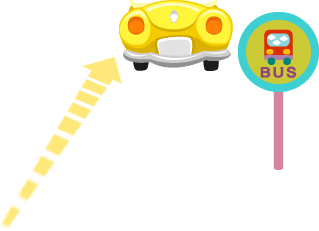
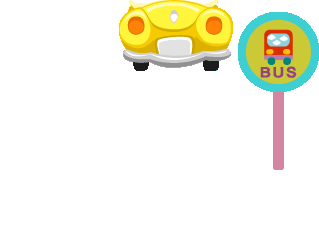
细节调整0614

diff --git a/media/css/Index.css b/media/css/Index.css
@@ -87,17 +87,19 @@ li.bor_b_n{ border-bottom:none!important;}
 .iphone{width:25.7%; height:48.3%; position: absolute; top:0%; left:12.7%; background: url("../images/iphone.png") no-repeat; background-size:100% 100%; z-index:6;}
 .no_left{width:10%; height:56%; position: absolute; top:0; left:24%; background: url("../images/no_left.png") no-repeat; background-size:100% 100%; z-index:2;}
 .lp{width:28%; height:66.4%; position: absolute; top:0; right:2.6%; background: url("../images/lp.png") no-repeat; background-size:100% 100%; z-index:2;}
-.bus{width:23.8%; height:30.8%; position: absolute; top:0; right:26%; background: url("../images/bus.png") no-repeat; background-size:100% 100%; z-index:2;}
-.result{ position: absolute; top:35%; left:21%;font-size:25px; color: #be4334;}
-.persent{ position: absolute; top:50%; left:20%;font-size: 25px; color:#000;}
-.r_text{ position: absolute;width:32.1%; top:72%; left:9%;font-size:16px; font-weight:600; color:#000;}
-.shareNb{ position: absolute; bottom:17.5%; right:16%;font-size:25px; font-weight:600; color:#000;}
+.bus{width:23.8%; height:30.8%; position: absolute; top:0; right:26%; background: url("../images/bus.png?112") no-repeat; background-size:100% 100%; z-index:2;}
+.result{ position: absolute; top:34%; left:21%;font-size:25px; color: #be4334;font-weight:600!important;}
+.persent{ position: absolute; top:48%; left:18%;font-size: 25px; color:#000;font-weight:600!important;}
+.r_text{ position: absolute;width:32.1%; top:72%; left:9%;font-size:16px; font-weight:600!important; color:#000;}
+.shareNb{ position: absolute; bottom:17.5%; right:16%;font-size:25px; font-weight:600!important; color:#000;}
 .shareButton{width:24.3%; height:15.6%; position: absolute; bottom:38%; right:2%; cursor:pointer}
 .testOne{width:24.3%; height:15.6%; position: absolute; bottom:55.74%; right:2%; cursor:pointer}
 .joinUs{width:24.03%; height:19%; position: absolute; bottom:27.33%; left:47%; cursor:pointer}
 .iphoneOk,.iphoneNot{width:18.9%; height:18%; position: absolute; top:41.5%; left:18.85%; cursor:pointer}
 .iphoneOk{left:62.3%;}
-.infoTxt{width:48%; height:21%; position: absolute; top:0; left:50%; margin-left:-24%; background: url("../images/txt01.png") no-repeat; background-size:100% 100%; z-index:6;}
+.infoTxt{width:48%; height:21%; position: absolute; top:0; left:50%; margin-left:-24%; background: url("../images/txt01.png") no-repeat; background-size:100% 100%; z-index:120000;}
+.jt{width:9.4%; height:30.8%; position: absolute; top:5%; right:41.4%; margin-left:-24%; background: url("../images/jt.png") no-repeat; background-size:100% 100%; z-index:6;}
+.jt.introduce{background: url("../images/jt_h.png?112") no-repeat;background-size:100% 100%;margin:-3.7% -3.7% 0 0;}
 
 /*----------car control--------*/
 .introduce{margin:0 0 -3.7% -3.7%;  padding:3.7%;}

diff --git a/media/js/fenxiang.js b/media/js/fenxiang.js
@@ -1,0 +1,69 @@
+function fenxiang(a,b,c){
+			if (ua.wechat) {
+				function getNewsLink() {
+					var link = location.search;
+					link = link.substr(1);
+					var link_arr = link.split('&');
+					var link_arr_length = link_arr.length;
+					var link_flag = false;
+					for (var i = 0; i < link_arr_length; i++) {
+						if (link_arr[i].split("=")[0] == "play") {
+							link_flag = true;
+						}
+					}
+					var url = location.href;
+					if (!link_flag) {
+						return url + (url.indexOf('?') < 0 ? '?' : '&') + 'play=1';
+					} else {
+						return url;
+					}
+				}
+				$.getJSON('http://res.jiconglin.com/index.php?module=cbtopic&controller=jt93api&action=share&callback=?', {url: location.href.split('#')[0]}, function (msg) {
+					if (msg.success) {
+						wx.config({
+							debug: false,
+							appId: msg.appId,
+							timestamp: msg.timestamp,
+							nonceStr: msg.nonceStr,
+							signature: msg.signature,
+							jsApiList: [
+								'onMenuShareTimeline',
+								'onMenuShareAppMessage',
+								'onMenuShareQQ',
+								'onMenuShareWeibo',
+							]
+						});
+					}
+					wx.ready(function () {
+						var news_title = a;
+						var news_link = getNewsLink();
+						var news_image = "../images/300300.jpg";
+						var news_intro = b;
+						var news_Timeline = c;
+						wx.onMenuShareTimeline({
+							title: news_title,
+							link: news_link,
+							imgUrl: news_image
+						});
+						wx.onMenuShareAppMessage({
+							title: news_Timeline,
+							desc: news_intro,
+							link: news_link,
+							imgUrl: news_image
+						});
+						wx.onMenuShareQQ({
+							title: news_title,
+							desc: news_intro,
+							link: news_link,
+							imgUrl: news_image
+						});
+						wx.onMenuShareWeibo({
+							title: news_title,
+							desc: news_intro,
+							link: news_link,
+							imgUrl: news_image
+						});
+					});
+				});
+			}
+		}

diff --git a/indexPicc.html b/indexPicc.html
@@ -26,7 +26,7 @@
 </div>
 <div class="fakeloader"><img class="v_h" src="media/images/loading.gif" /></div>
 
-<div class="agreement dn"><a class="icon_agree" href="javascript:;"></a><img class="shareImg" src="media/images/ewm.jpg" /></div>
+<div class="agreement dn"><a class="icon_agree" href="javascript:;"></a><img class="shareImg" src="media/images/ewm_picc.jpg" /></div>
 
 <div class="game_start"><a class="start_button" href="javascript:;"></a></div>
 
@@ -35,7 +35,7 @@
 <img class="dn" src="media/images/jt_h.png"/>
 <img class="dn" src="media/images/jt.png"/>
 <img class="dn" src="media/images/run_sx.png"/>
-<img class="dn" src="media/images/ewm.jpg"/>
+<img class="dn" src="media/images/ewm_picc.jpg"/>
 <img class="dn" src="media/images/agreement.jpg?112"/>
 <img class="dn" src="media/images/left_Fast.gif?112"/>
 <img class="dn" src="media/images/bus.png"/>
@@ -188,6 +188,6 @@
 </script>
 <script src="media/js/fenxiang.js" charset="utf-8"></script>
 <script src="media/js/jquery.mobile.js?0603" charset="utf-8"></script>
-<script src="media/js/carWidget.js?0603" charset="utf-8"></script>
+<script src="media/js/carWidgetPicc.js?0603" charset="utf-8"></script>
 <script src="media/js/Index.js?0605" charset="utf-8"></script>
 </html>

diff --git a/media/js/carWidgetPicc.js b/media/js/carWidgetPicc.js
@@ -615,7 +615,7 @@ carWidge.prototype.loadingPart9 = function() { //结果页
             var mobile = $("input[name='Tel']").val();
             $.ajax({
                 type: 'POST',
-                url: 'http://res.jiconglin.com/jt93ask/Scoreinfocomplete?username='+userNmae+'&mobile='+mobile+'&license_plate='+license_plate+'&source=1&vinno='+carLastNb,
+                url: 'http://res.jiconglin.com/jt93ask/Scoreinfocomplete?username='+userNmae+'&mobile='+mobile+'&license_plate='+license_plate+'&source=2&vinno='+carLastNb,
                 dataType: 'jsonp',
                 success: function () {
                     alert("提交成功，信息已收到!");

diff --git a/media/js/Index.js b/media/js/Index.js
@@ -42,6 +42,6 @@ $(function(){
     $(".start_button").on("click",function(){
         $(".game_start").fadeOut(500);
         kkk.introduce();
-        //kkk.loadingPart5();
+        //kkk.loadingPartaddTwo();
     });
 });
